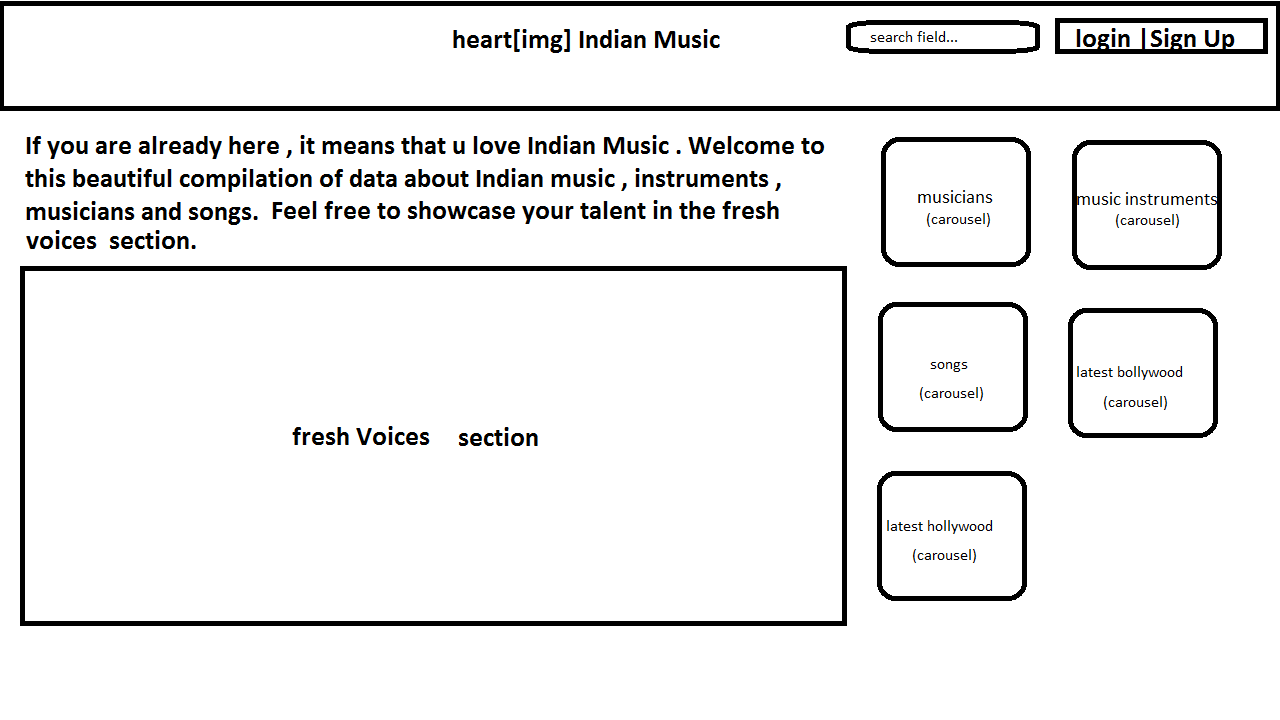
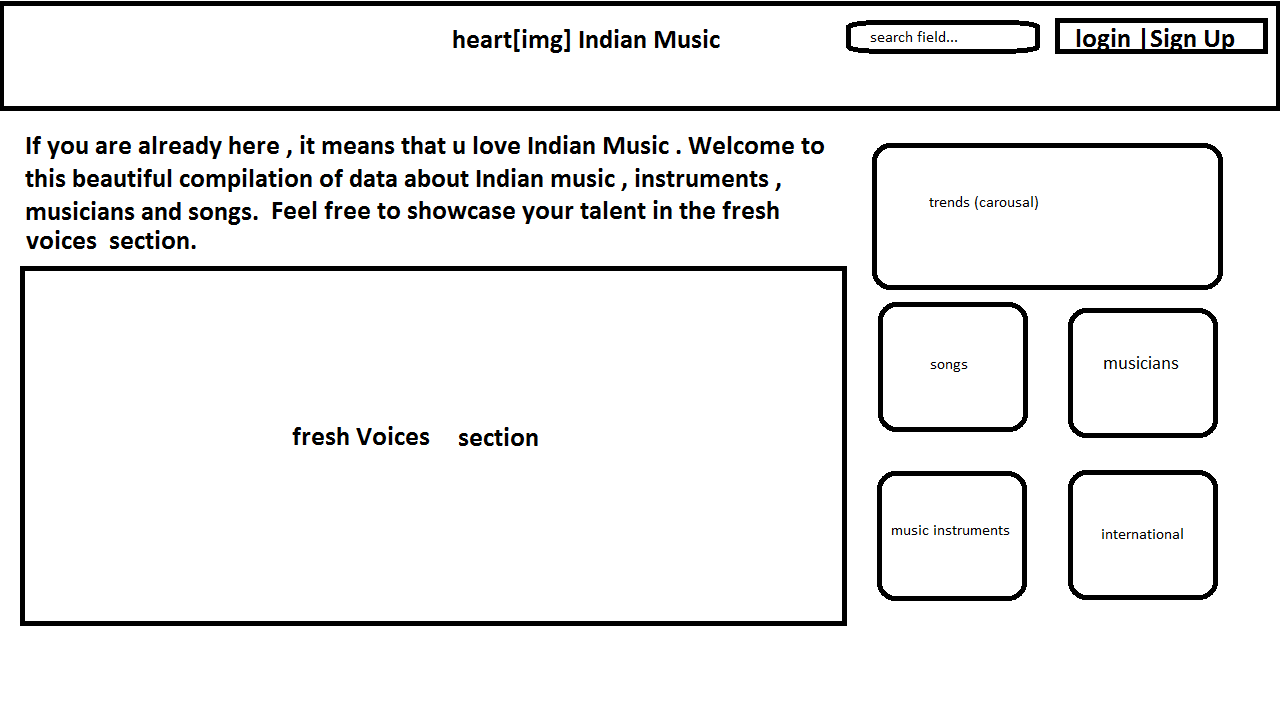
updated landing page design for desktop view , updated home page code ,  updated cover image for songs link on home page

diff --git a/src/app/home/home.component.html b/src/app/home/home.component.html
@@ -15,7 +15,7 @@
         <a [routerLink]="['latest-trends']" class="music-data col-lg-12 col-md-12 col-xl-12 col-sm-12">
             trends
         </a>
-        <a [routerLink]="['musicians-and-songs','songs']" class="music-data col-lg-6 col-md-6 col-xl-6 col-sm-6">
+        <a [routerLink]="['musicians-and-songs','songs']" class="home-songs-cover music-data col-lg-6 col-md-6 col-xl-6 col-sm-6">
             songs
         </a>
         <a [routerLink]="['musicians-and-songs','musicians']" class="music-data col-lg-6 col-md-6 col-xl-6 col-sm-6">

diff --git a/src/app/home/home.component.scss b/src/app/home/home.component.scss
@@ -25,8 +25,12 @@
 
 .music-data{
     color: white;
-    min-height: 100px;
+    min-height: 150px;
     border: 1px solid white;
+}
+
+.home-songs-cover{
+    background: url('../../assets/images/songs-cover-image.jpg') right / cover no-repeat;
 }
 
 //for mobile views
